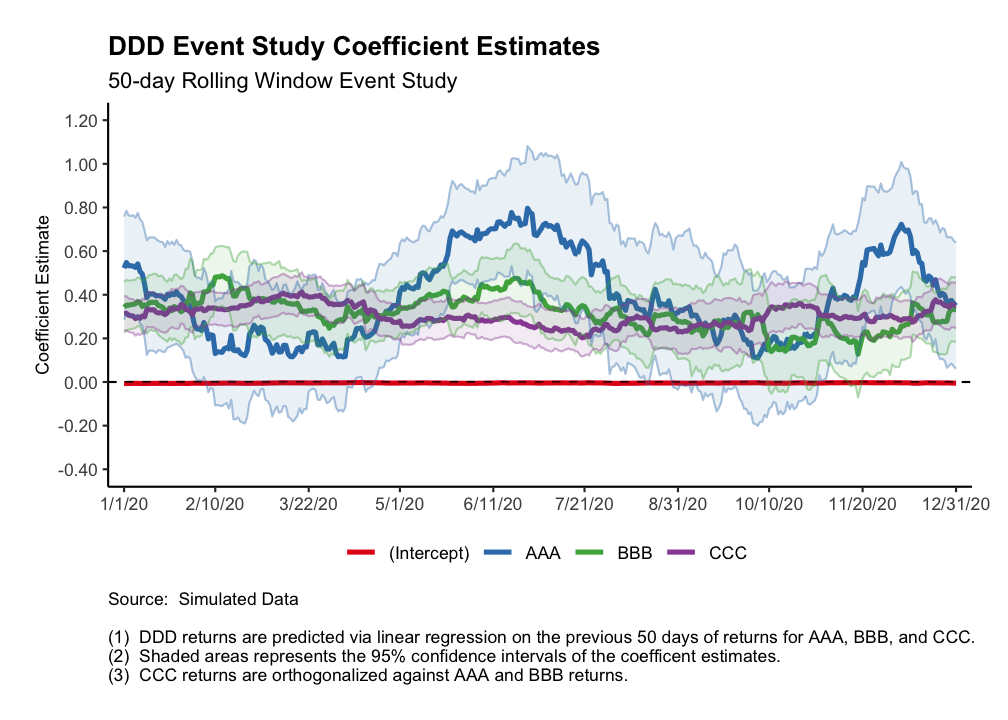
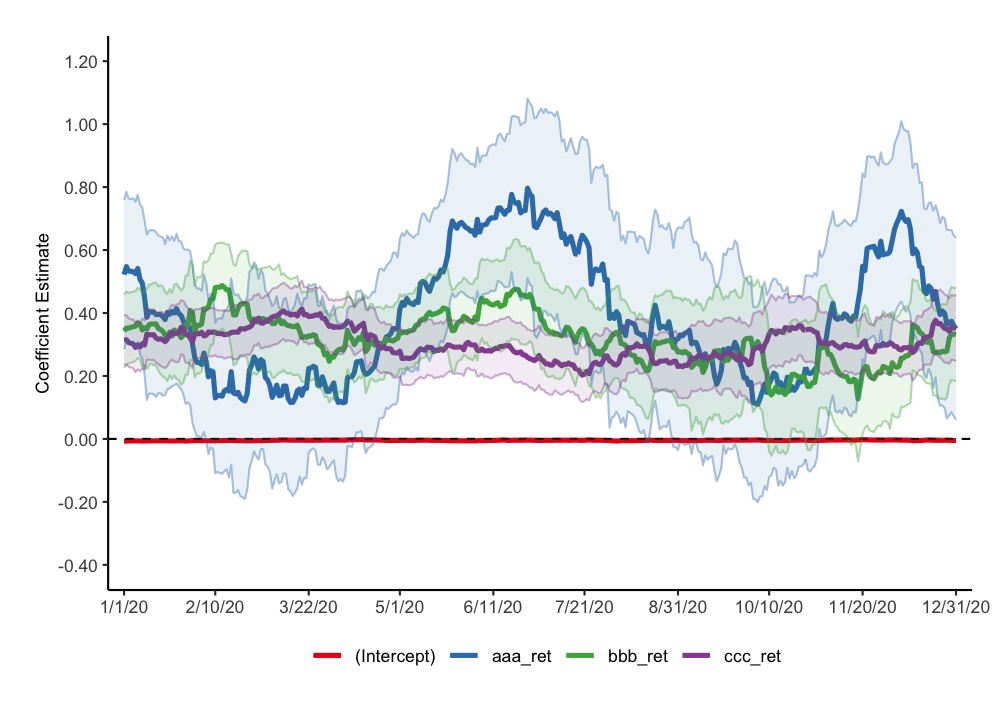
modified readme to model usage of include_labs

diff --git a/README.md b/README.md
@@ -84,19 +84,17 @@ labels <- c(
 
 (resid_plot <- make_resid_plot(
   event_study, 
-  include_labs = FALSE
+  include_labs = TRUE
 ))
 ```
 
 <img src="README_files/figure-gfm/Generate residual plot-1.png" width="100%" />
-4. Generate coefficient plot
+4. Generate coefficient plot, exluding labels.
 
 ``` r
 (coef_plot <- make_coef_plot(
   event_study, 
-  source = 'Simulated Data',
-  labels = labels,
-  include_labs = T
+  include_labs = FALSE
 ))
 ```
 
